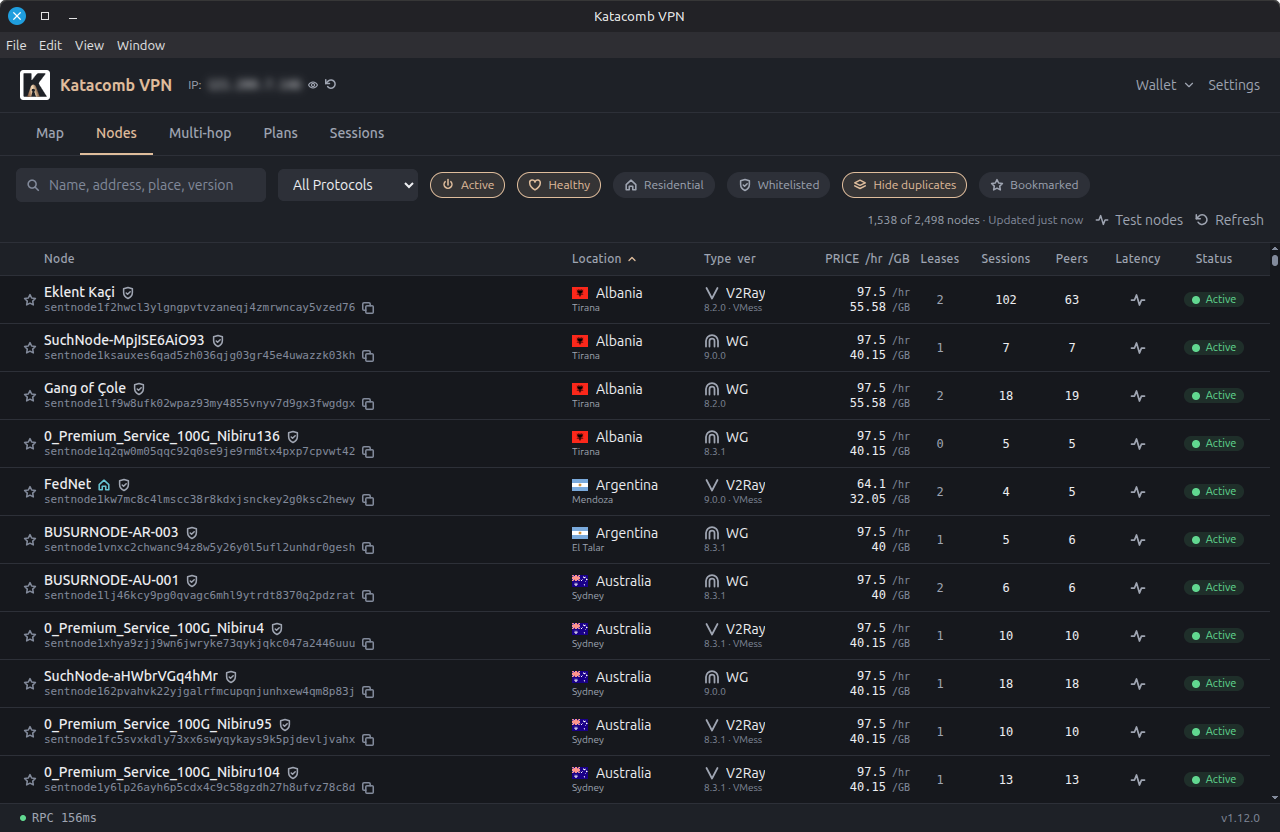
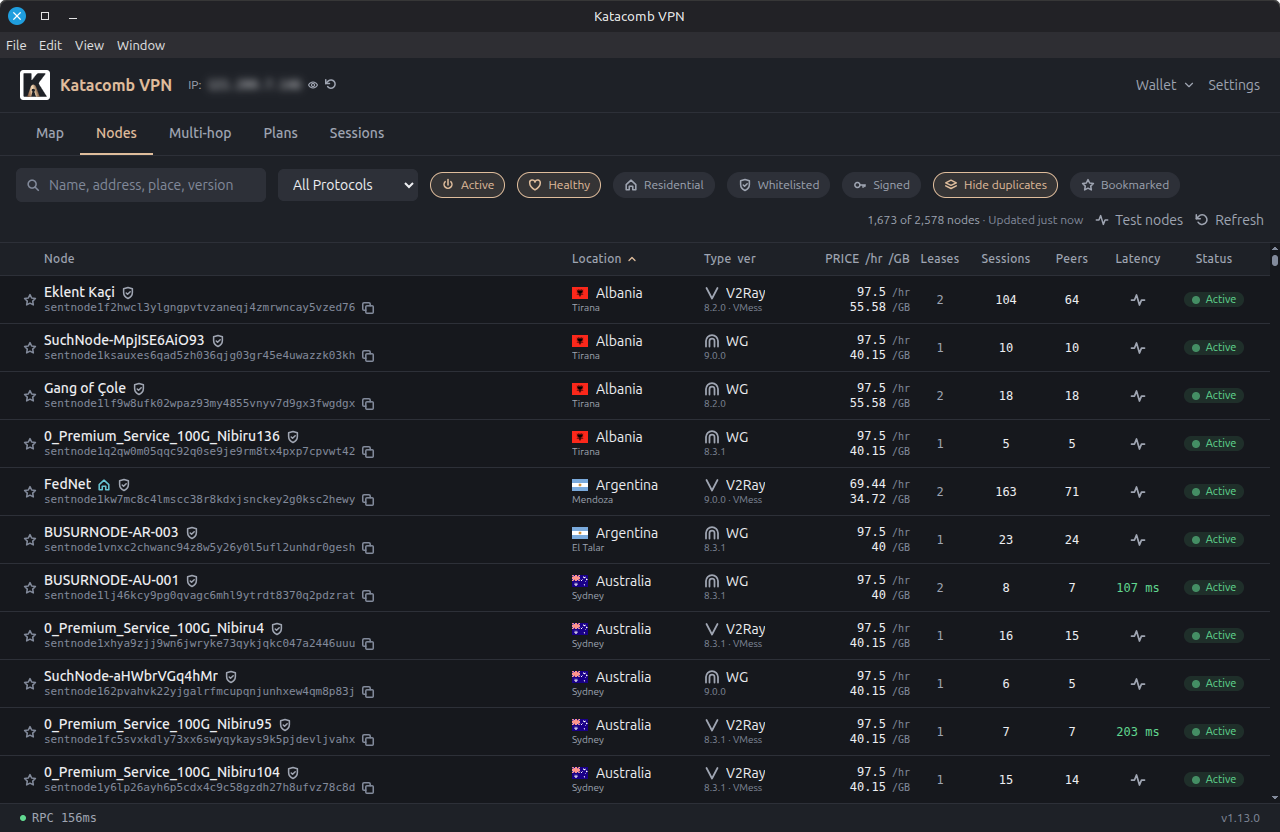
Bump Katacomb VPN fallback to v1.13.0 and update screenshots

diff --git a/plugins/katacomb-release/index.js b/plugins/katacomb-release/index.js
@@ -4,21 +4,21 @@ const RELEASES = `https://github.com/${REPO}/releases`;
 // Used when the GitHub API can't be reached, so an offline or rate-limited
 // build still produces a working page instead of failing.
 const FALLBACK = {
-  version: '1.12.0',
+  version: '1.13.0',
   stale: true,
-  releaseUrl: `${RELEASES}/tag/v1.12.0`,
+  releaseUrl: `${RELEASES}/tag/v1.13.0`,
   deb: {
-    name: 'katacomb-vpn_1.12.0_amd64.deb',
-    url: `${RELEASES}/download/v1.12.0/katacomb-vpn_1.12.0_amd64.deb`,
+    name: 'katacomb-vpn_1.13.0_amd64.deb',
+    url: `${RELEASES}/download/v1.13.0/katacomb-vpn_1.13.0_amd64.deb`,
     size: '113 MB',
   },
   appimage: {
-    name: 'katacomb-vpn-1.12.0.AppImage',
-    url: `${RELEASES}/download/v1.12.0/katacomb-vpn-1.12.0.AppImage`,
+    name: 'katacomb-vpn-1.13.0.AppImage',
+    url: `${RELEASES}/download/v1.13.0/katacomb-vpn-1.13.0.AppImage`,
     size: '132 MB',
   },
-  checksums: `${RELEASES}/download/v1.12.0/SHA256SUMS`,
-  signature: `${RELEASES}/download/v1.12.0/SHA256SUMS.asc`,
+  checksums: `${RELEASES}/download/v1.13.0/SHA256SUMS`,
+  signature: `${RELEASES}/download/v1.13.0/SHA256SUMS.asc`,
 };
 
 const megabytes = (bytes) =>
